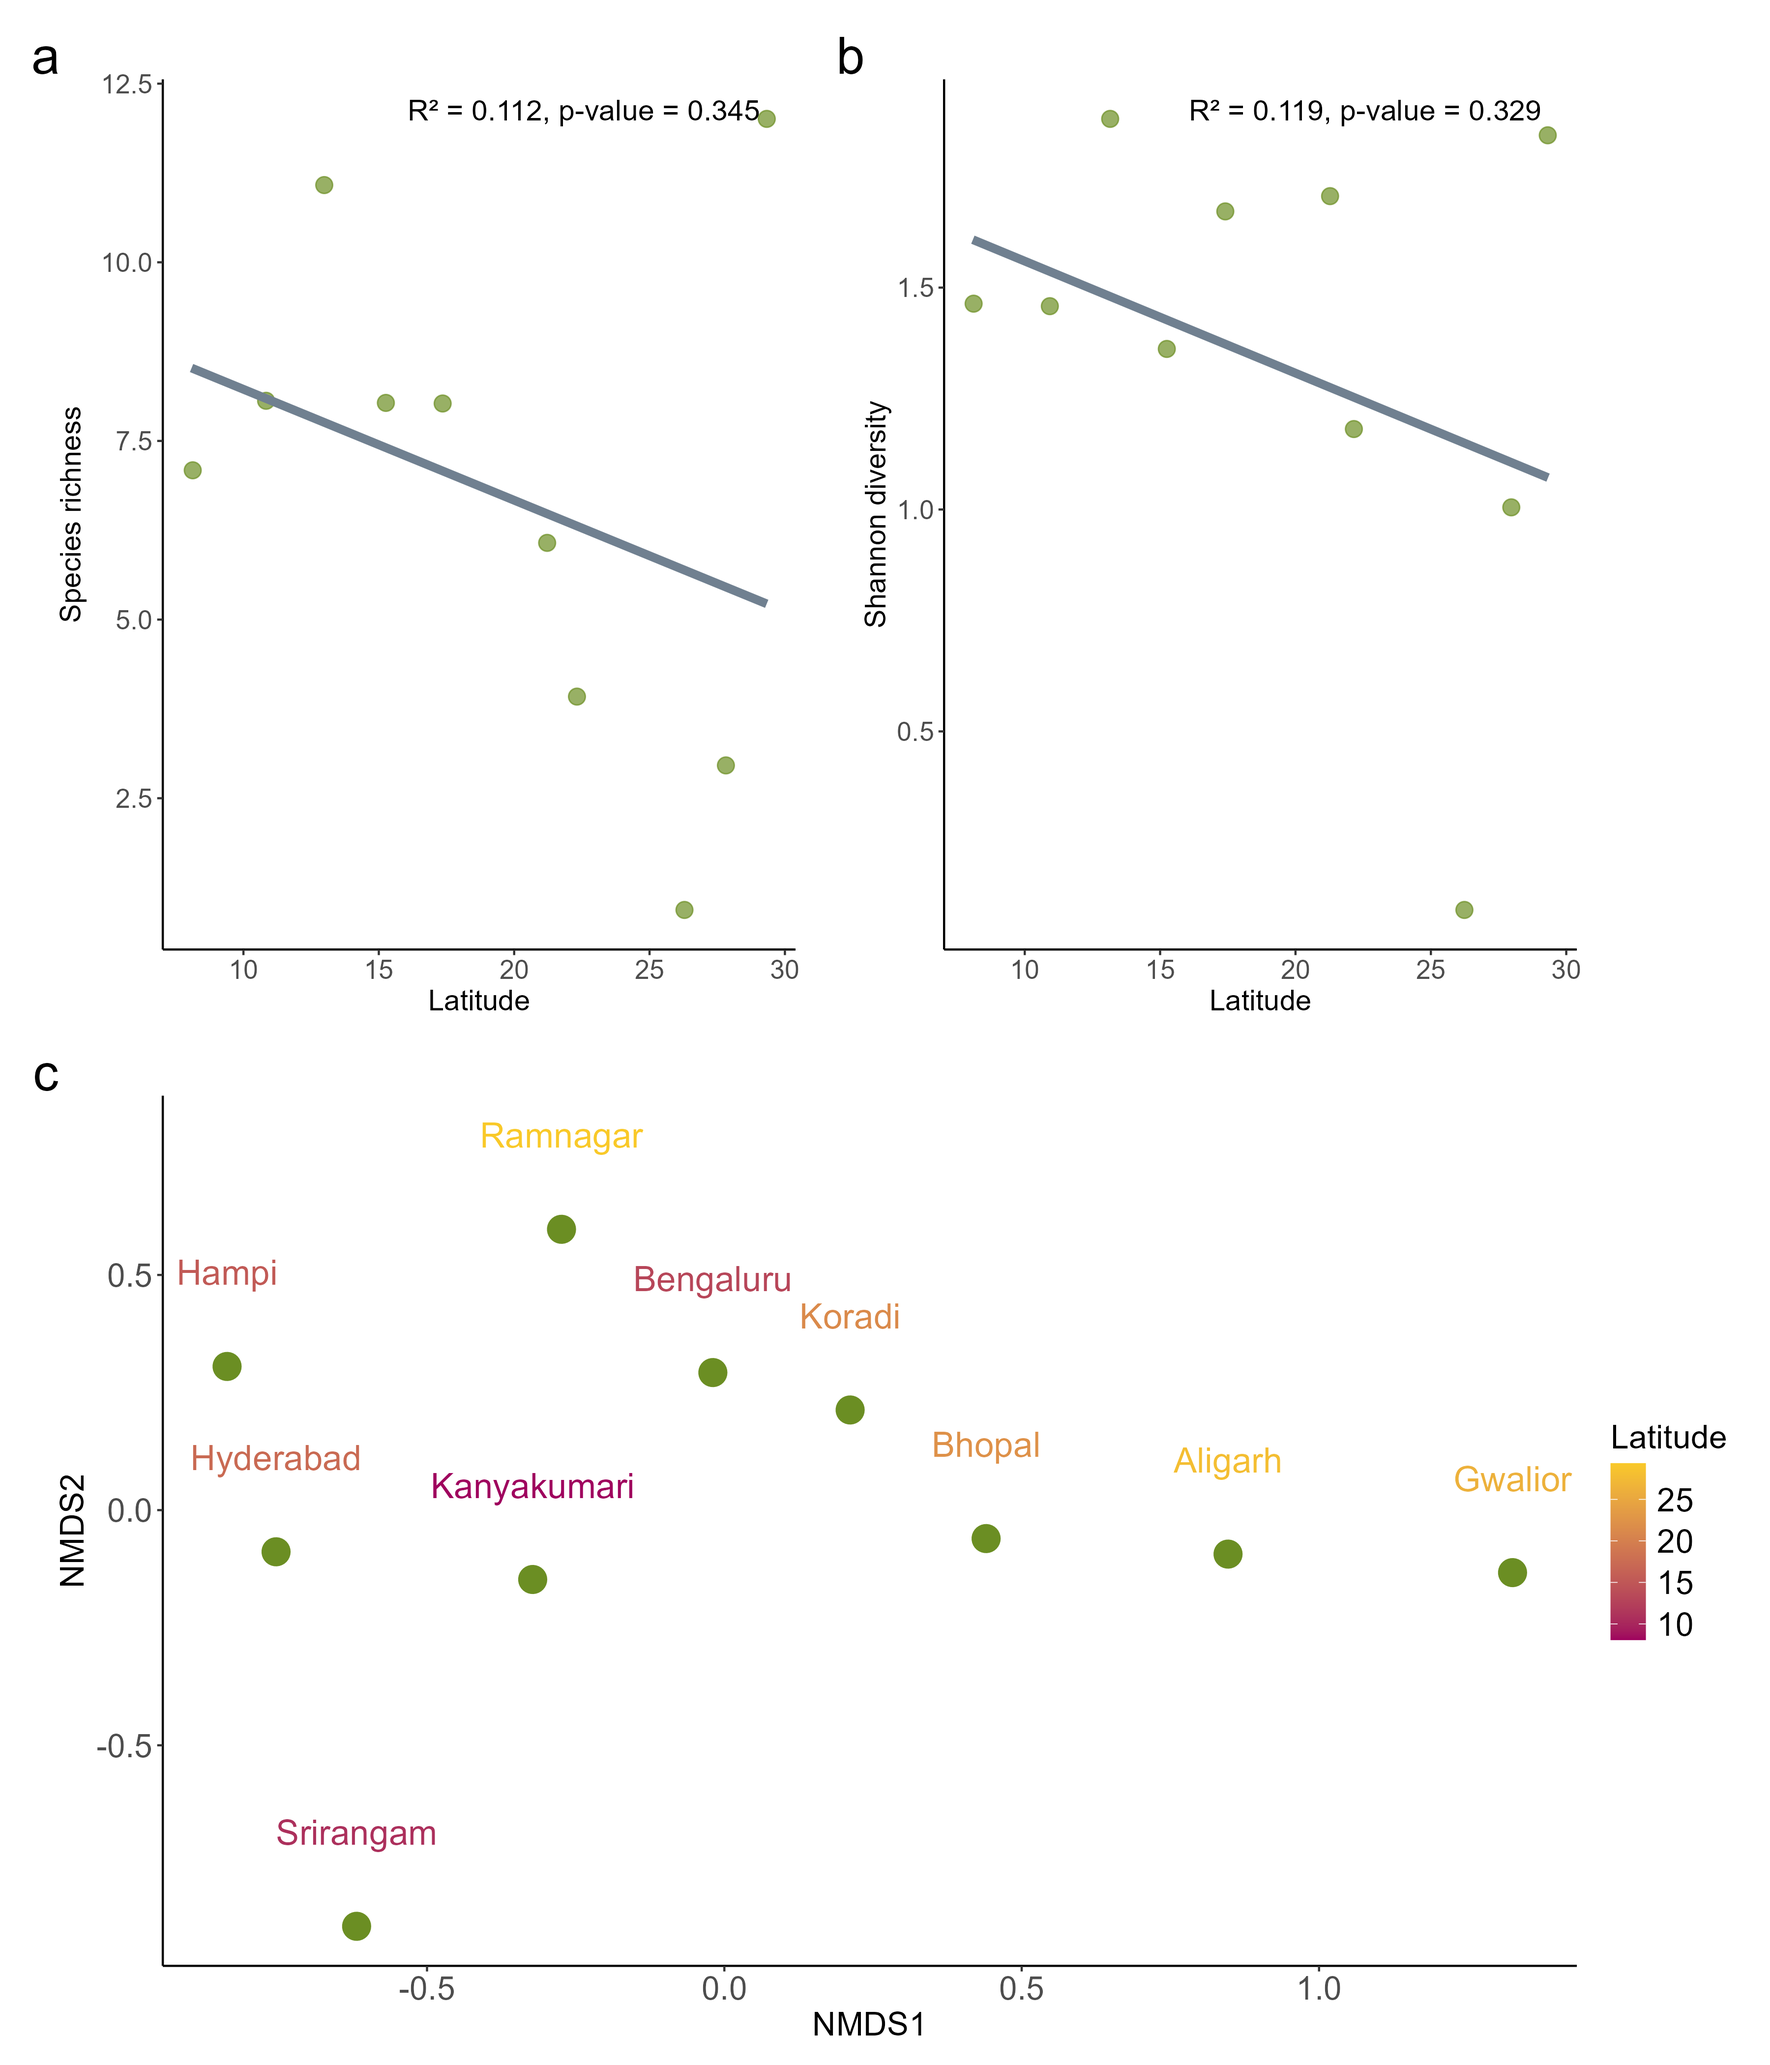
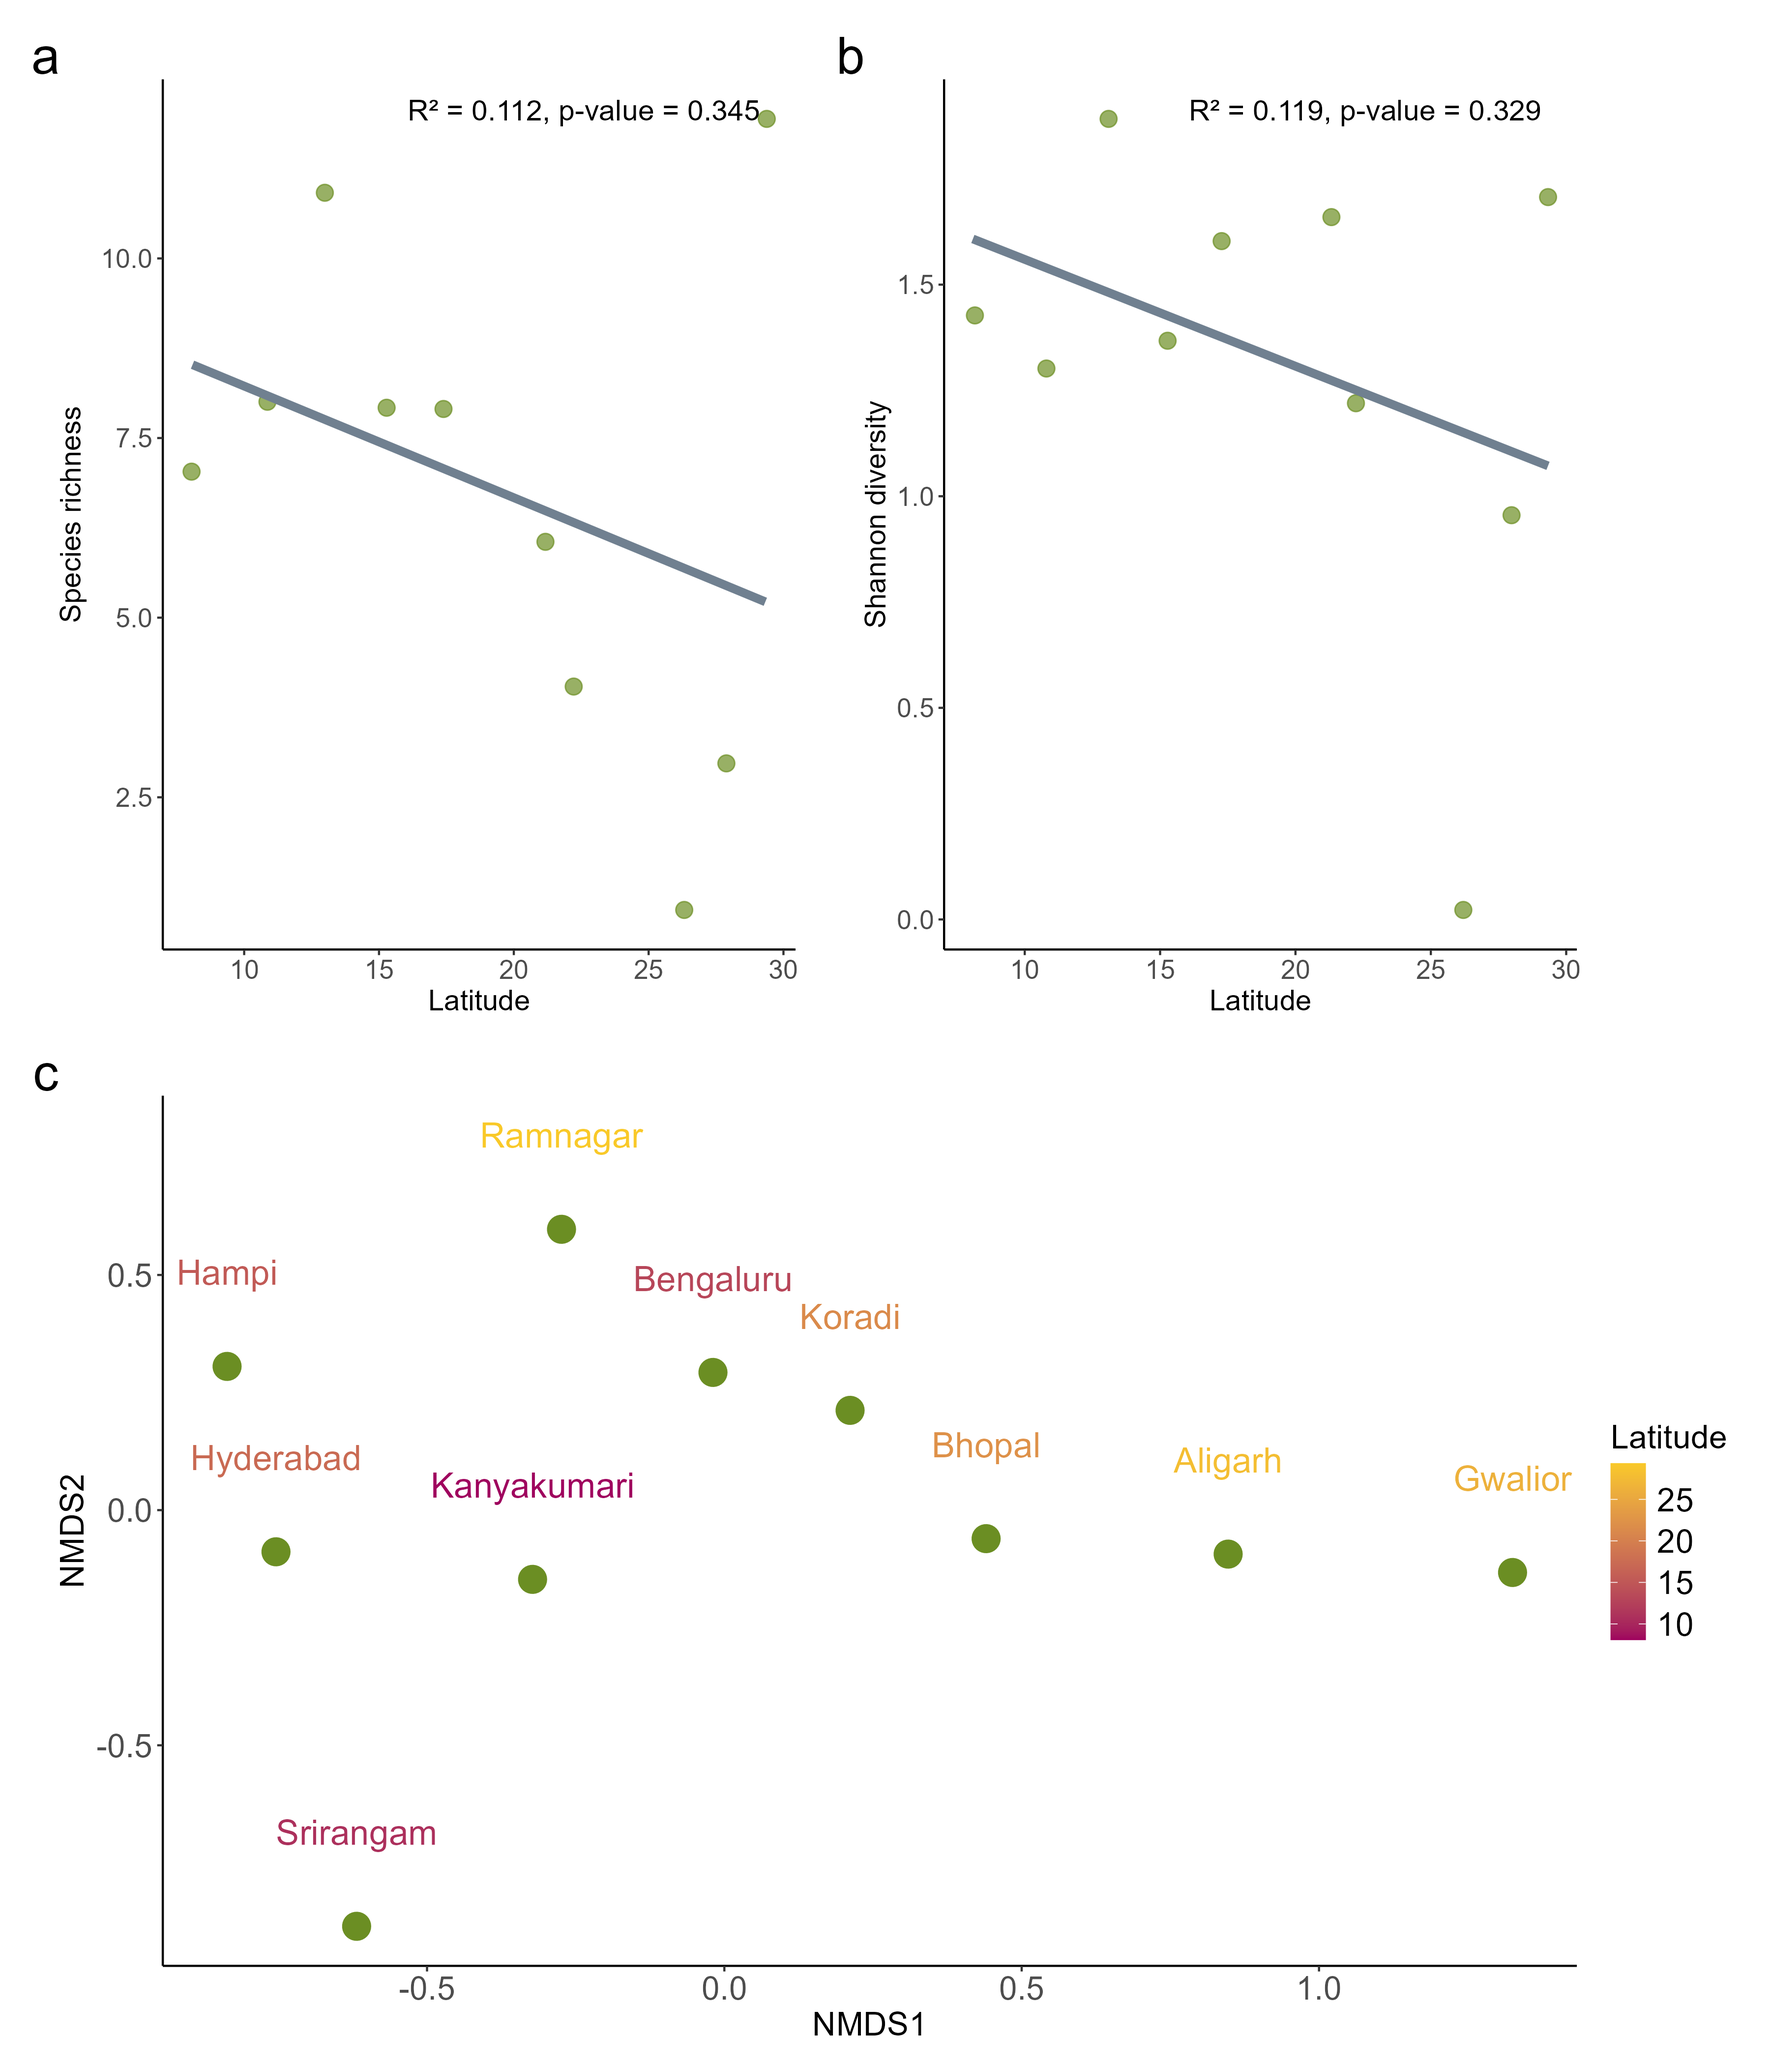
Updates incorporating paper revisions to Oecologia manuscript

diff --git a/README.md b/README.md
@@ -1860,10 +1860,10 @@ ggsave("figure2.png", final_plot, width = 11.5, height = 12)
     ## Warning: Removed 110 rows containing missing values or values outside the scale range
     ## (`geom_point()`).
 
-    ## Warning: Removed 6 rows containing missing values or values outside the scale range
+    ## Warning: Removed 10 rows containing missing values or values outside the scale range
     ## (`geom_point()`).
 
-    ## Warning: Removed 5 rows containing missing values or values outside the scale range
+    ## Warning: Removed 11 rows containing missing values or values outside the scale range
     ## (`geom_point()`).
 
 How does seed size and elaiosome/seed mass vary across latitude?
@@ -2222,48 +2222,51 @@ latitude
 
     ## Wisconsin double standardization
     ## Run 0 stress 0.09286488 
-    ## Run 1 stress 0.09286505 
-    ## ... Procrustes: rmse 0.000236948  max resid 0.00052105 
-    ## ... Similar to previous best
-    ## Run 2 stress 0.1047489 
-    ## Run 3 stress 0.09286471 
+    ## Run 1 stress 0.2588647 
+    ## Run 2 stress 0.09286486 
     ## ... New best solution
-    ## ... Procrustes: rmse 0.0002720879  max resid 0.0005605709 
+    ## ... Procrustes: rmse 0.0008352369  max resid 0.001839115 
     ## ... Similar to previous best
-    ## Run 4 stress 0.09286475 
-    ## ... Procrustes: rmse 8.780532e-05  max resid 0.0002203438 
+    ## Run 3 stress 0.09286477 
+    ## ... New best solution
+    ## ... Procrustes: rmse 0.0006919014  max resid 0.001610502 
     ## ... Similar to previous best
-    ## Run 5 stress 0.09286483 
-    ## ... Procrustes: rmse 0.0005037066  max resid 0.001124941 
+    ## Run 4 stress 0.09286515 
+    ## ... Procrustes: rmse 0.0009241218  max resid 0.002050274 
     ## ... Similar to previous best
-    ## Run 6 stress 0.1047491 
-    ## Run 7 stress 0.1047491 
-    ## Run 8 stress 0.104749 
-    ## Run 9 stress 0.2299804 
-    ## Run 10 stress 0.1047493 
-    ## Run 11 stress 0.09286475 
-    ## ... Procrustes: rmse 0.0001958291  max resid 0.0004657113 
+    ## Run 5 stress 0.1150362 
+    ## Run 6 stress 0.1047489 
+    ## Run 7 stress 0.09286492 
+    ## ... Procrustes: rmse 0.0006270422  max resid 0.001378805 
     ## ... Similar to previous best
-    ## Run 12 stress 0.1047489 
+    ## Run 8 stress 0.09286505 
+    ## ... Procrustes: rmse 0.0003008102  max resid 0.0007498599 
+    ## ... Similar to previous best
+    ## Run 9 stress 0.1047489 
+    ## Run 10 stress 0.09286502 
+    ## ... Procrustes: rmse 0.0008168265  max resid 0.002012111 
+    ## ... Similar to previous best
+    ## Run 11 stress 0.1047492 
+    ## Run 12 stress 0.09286479 
+    ## ... Procrustes: rmse 2.914143e-05  max resid 7.290828e-05 
+    ## ... Similar to previous best
     ## Run 13 stress 0.1047489 
-    ## Run 14 stress 0.09286527 
-    ## ... Procrustes: rmse 0.0005871693  max resid 0.001474036 
+    ## Run 14 stress 0.1157047 
+    ## Run 15 stress 0.09286514 
+    ## ... Procrustes: rmse 0.0003235503  max resid 0.0008001435 
     ## ... Similar to previous best
-    ## Run 15 stress 0.09286515 
-    ## ... Procrustes: rmse 0.0007562462  max resid 0.001871355 
+    ## Run 16 stress 0.09286489 
+    ## ... Procrustes: rmse 0.0001585076  max resid 0.0003959273 
     ## ... Similar to previous best
-    ## Run 16 stress 0.1047491 
-    ## Run 17 stress 0.0928648 
-    ## ... Procrustes: rmse 0.0003641957  max resid 0.000632605 
+    ## Run 17 stress 0.09286489 
+    ## ... Procrustes: rmse 8.867248e-05  max resid 0.0001943733 
     ## ... Similar to previous best
-    ## Run 18 stress 0.09286514 
-    ## ... Procrustes: rmse 0.0004711407  max resid 0.0007959646 
+    ## Run 18 stress 0.104749 
+    ## Run 19 stress 0.09286483 
+    ## ... Procrustes: rmse 0.0001128293  max resid 0.0001921338 
     ## ... Similar to previous best
-    ## Run 19 stress 0.09286506 
-    ## ... Procrustes: rmse 0.0004269913  max resid 0.001070485 
-    ## ... Similar to previous best
-    ## Run 20 stress 0.1047488 
-    ## *** Best solution repeated 9 times
+    ## Run 20 stress 0.1081466 
+    ## *** Best solution repeated 10 times
 
     ## `geom_smooth()` using formula = 'y ~ x'
     ## `geom_smooth()` using formula = 'y ~ x'
@@ -2274,7 +2277,7 @@ latitude
     ## 
     ## adonis2(formula = bray_curtis ~ sp_arranged$Lat, data = sp_arranged, permutations = 999)
     ##          Df SumOfSqs      R2      F Pr(>F)  
-    ## Model     1  0.60006 0.22603 2.3363  0.042 *
+    ## Model     1  0.60006 0.22603 2.3363  0.025 *
     ## Residual  8  2.05471 0.77397                
     ## Total     9  2.65476 1.00000                
     ## ---
